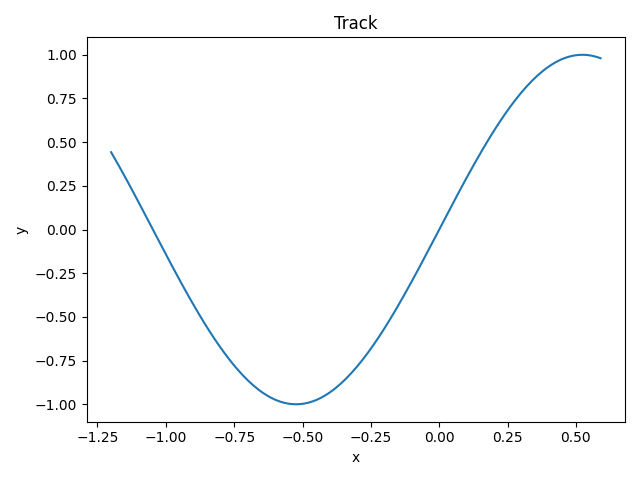
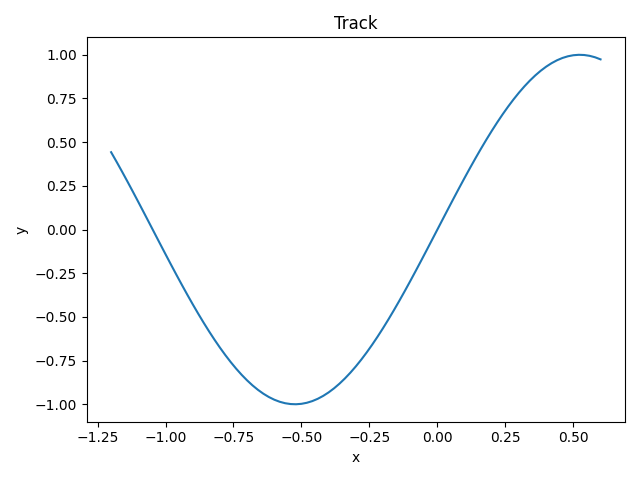
Cleanup visualize

diff --git a/src/visualize.py b/src/visualize.py
@@ -5,18 +5,13 @@ import matplotlib.pyplot as plt
 import numpy as np
 from matplotlib.animation import FuncAnimation
 
-import parameters
 from mountaincar import MountainCar
-
-# Global config
-plt.style.use('ggplot')
 
 
 def animate_track():
 
     fig, ax = plt.subplots(figsize=(6, 4))
     ax.set(xlim=MountainCar.position_bound, ylim=(-1.1, 1.1))
-    ax.set_facecolor('white')
 
     plt.title('Track')
     plt.ylabel('y')
@@ -75,7 +70,7 @@ def plot_track():
     plt.title('Track')
     plt.xlabel('x')
     plt.ylabel('y')
-    x = np.arange(-1.2, 0.6, 0.01)
+    x = np.linspace(MountainCar.position_bound[0], MountainCar.position_bound[1], 91)
 
     plt.plot(x, y(x))
 
@@ -90,3 +85,4 @@ def y(x):
 
 if __name__ == "__main__":
     animate_track()
+    plot_track()
